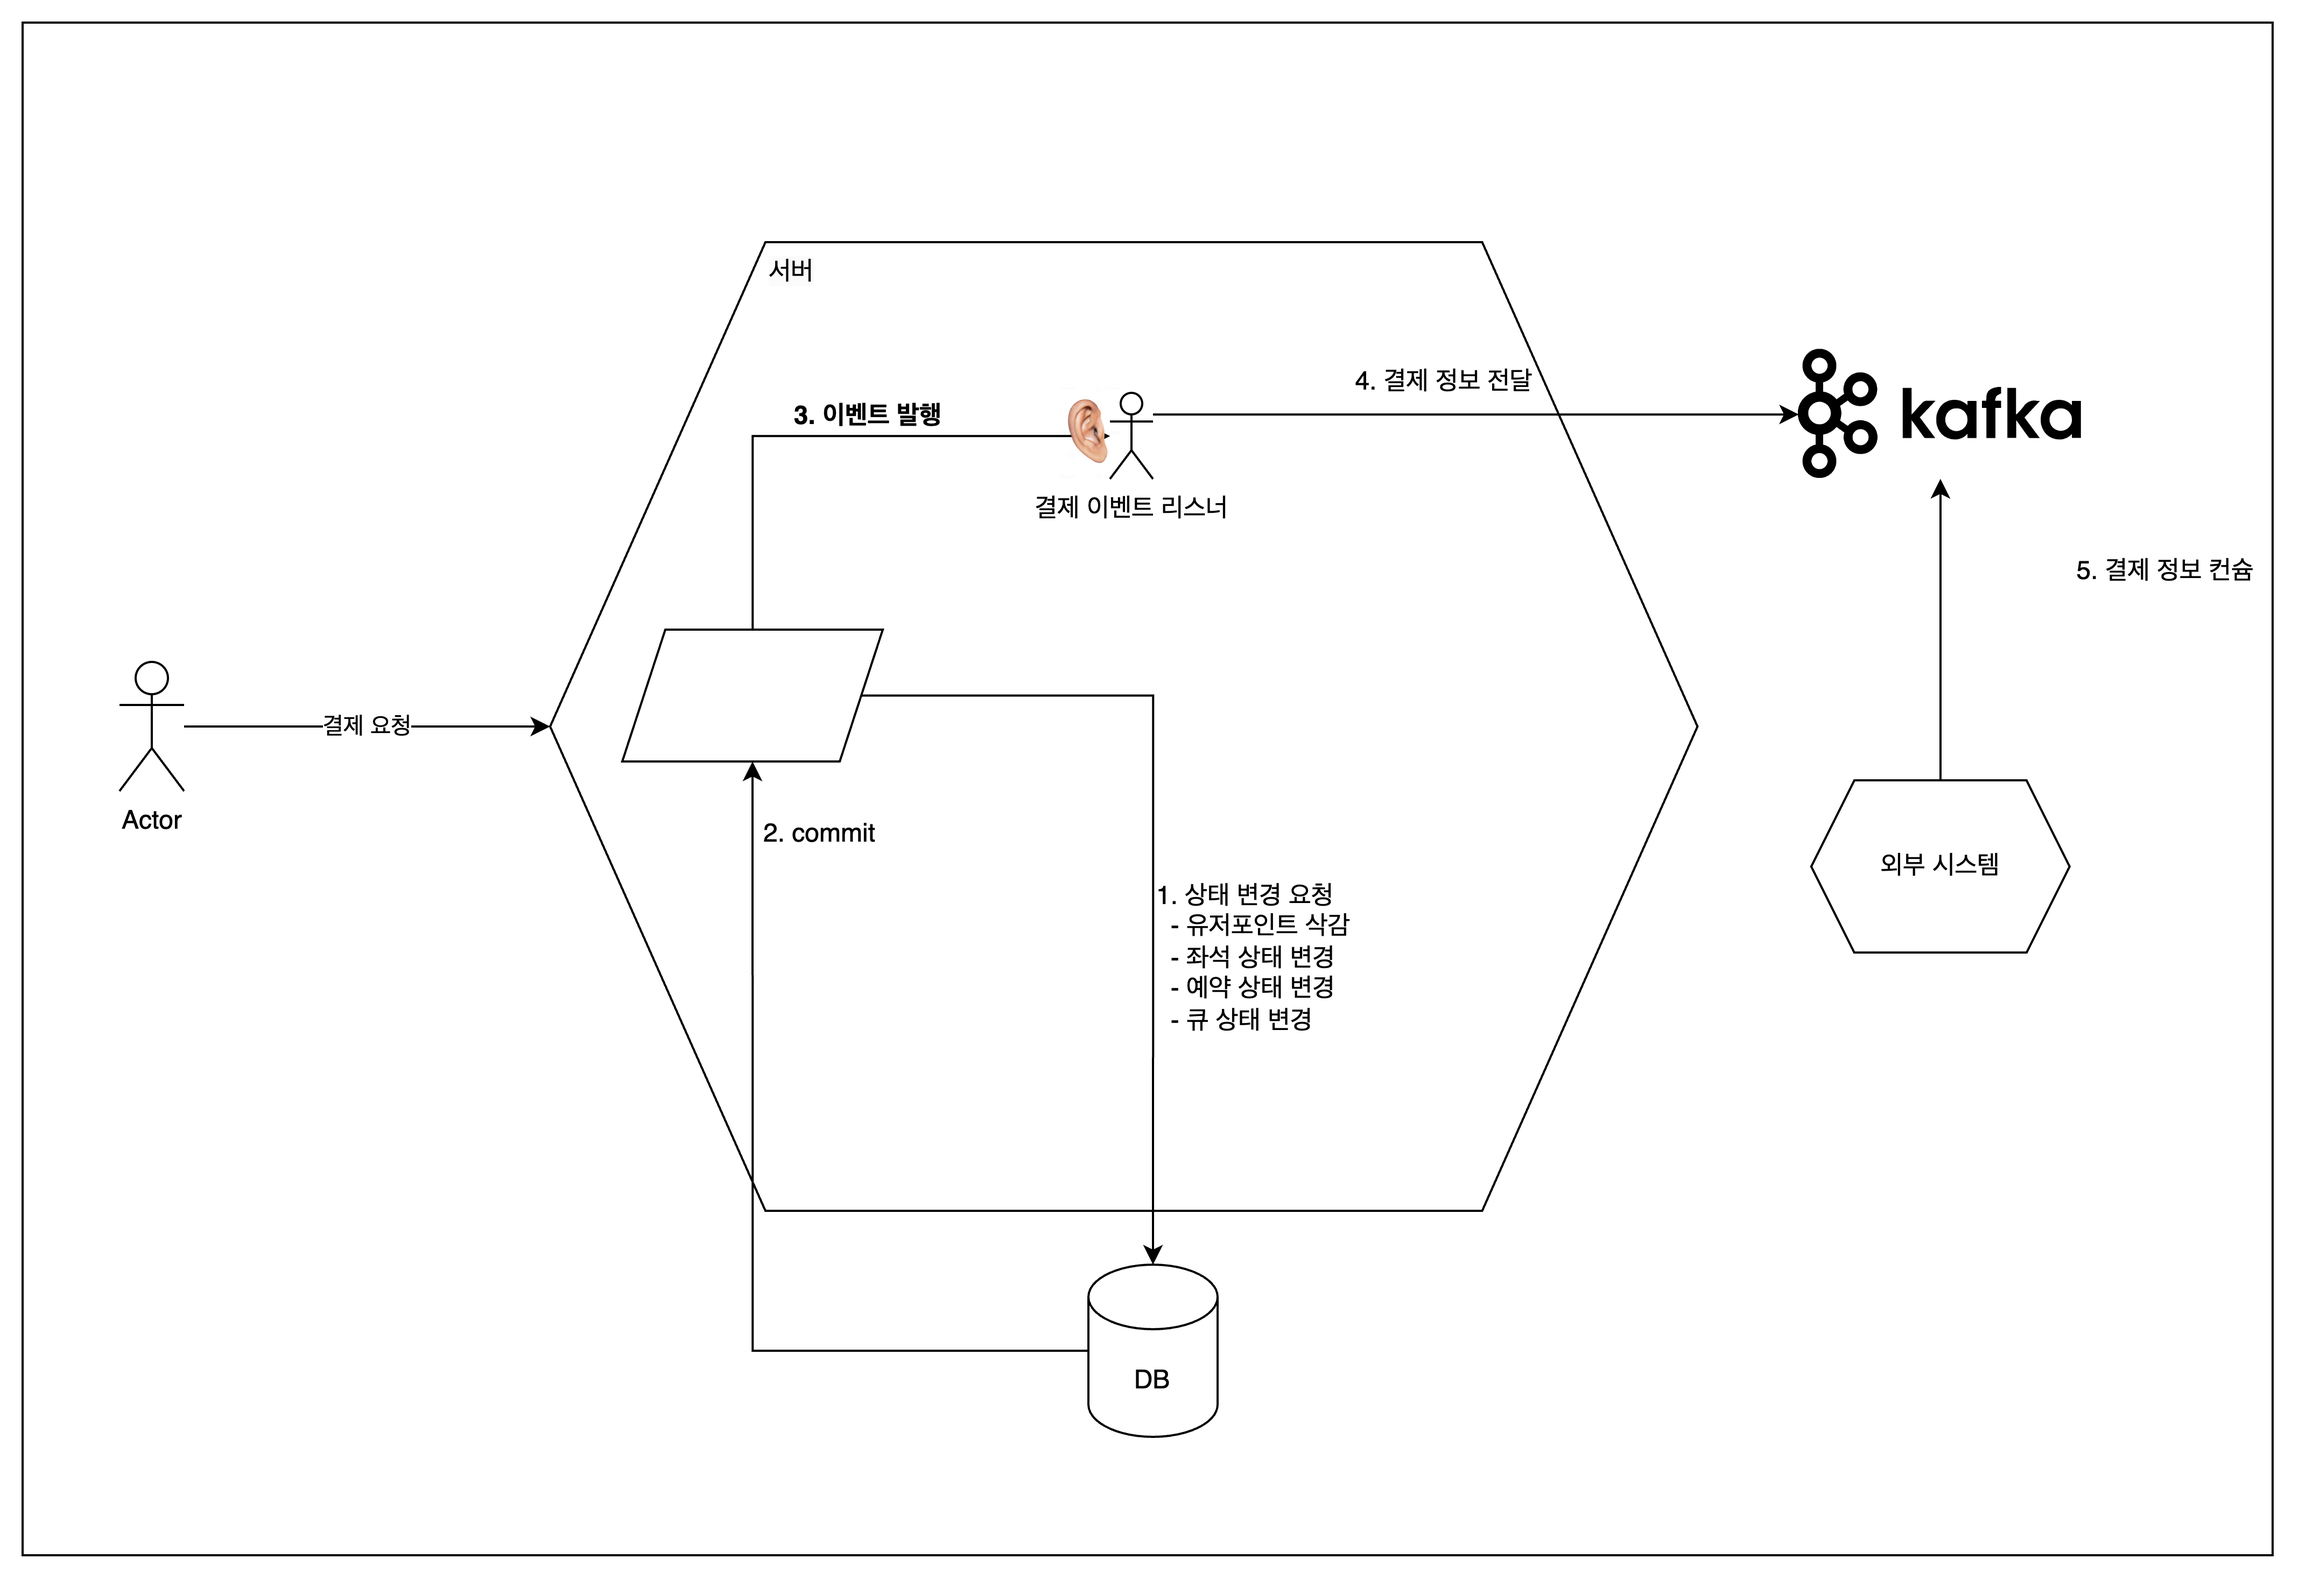
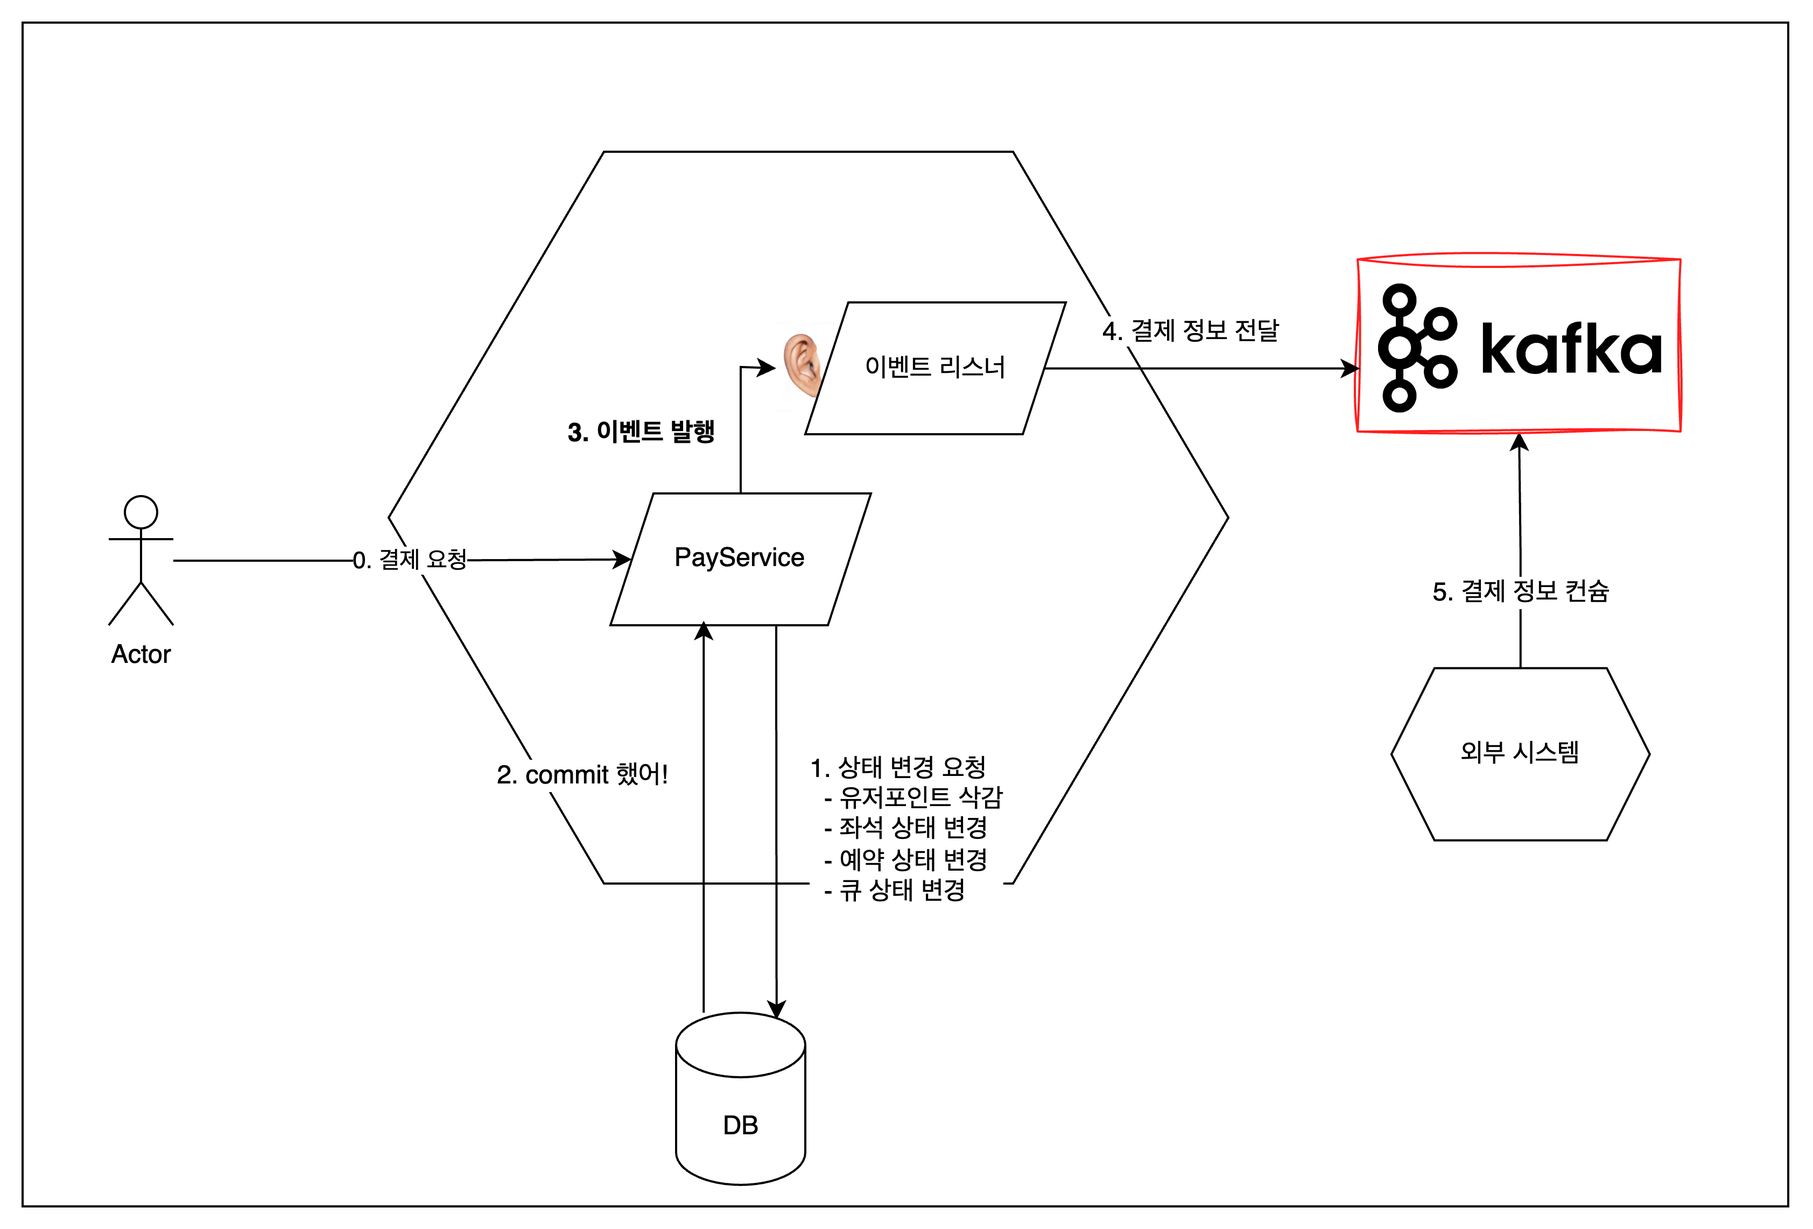
docs: 아웃박스 트랜잭션 패턴 설명 추가

diff --git a/docs/markdown/10. 9주차-Transactional OutBox Pattern.md b/docs/markdown/10. 9주차-Transactional OutBox Pattern.md
@@ -1,11 +1,20 @@
 # Transactional Outbox Pattern
 
-## 1. 왜 사용해?
+## 0. 들어가기 전
+콘서트 예약은 **유저**와 **좌석**이 필요하다.
+![](https://velog.velcdn.com/images/petit-prince/post/0c6d2a13-c439-46b9-b8d4-3cf71eae809a/image.png)
 
-기존에 잘 만들었던 상황을 다시 보자.  
+
+유저는 **"예약되지 않은 좌석"** 을 예약할 수 있다.
+![](https://velog.velcdn.com/images/petit-prince/post/afb98c93-ea4f-483d-a57a-255bc846c388/image.png)
+
+이후, 유저는 예약한 좌석에 대해 **결제**할 수 있다.
+
+## 1. 왜 사용해?
+ 
 ![10.1](https://github.com/hpp-backend-15/java-concert-joonhyeokyang/blob/step18/docs/img/10-1.png)
 
-좌석 결제 시도 이후 다음과 같은 일이 일어난다.
+**결제** 요청 이후, 발생하는 일은 다음과 같다. 
 
 1. DB에 상태 변경 요청
     - 유저포인트 삭감
@@ -13,60 +22,129 @@
     - 예약 상태 변경
     - 큐 상태 변경
 
-2. 커밋
+2. DB 커밋 
 3. 이벤트 발행
-4. (외부) 결제 정보 전달
+4. (외부 서버) 결제 정보 전달
 
-여기서, 트랜잭션 내에 있는 것은 DB에 상태 변경 요청들까지다.
+만약, `2(DB 커밋)`  이후 외부 API 서버에 결제 정보 전달 중 **실패하면 어떤 일이 일어날까?**
 
-만약, 커밋 이후 외부 API에 결제 정보 전달을 하다 실패하면 어떤 일이 일어날까?
-
-대표적으로 외부 시스템이 다운됐다 생각해보자.
-`Connection Timeout`이 났다면, 해당 요청이 완료된 것일까?  
-다시 요청을 보낸다면 **중복된 요청**일 수도 있고, 다시 보내지 않는다면 해당 정보가 **전달이 안됐을 수도** 있다.
+예를 들어, 외부 시스템 요청 중 `Connection Timeout`이 났다면, 해당 요청이 완료된 것일까?  
+**보내는 입장에서는 알 도리가 없다!**  
 
 ![10.2](https://github.com/hpp-backend-15/java-concert-joonhyeokyang/blob/step18/docs/img/10-2.png)
 
-어떻게 이 문제를 해결할까? 내 서비스의 역활과 책임을 분리하는 방법은 없을까?
+> 다시 보낸다면 **중복된 요청**일 수도 있다.  
+> 다시 보내지 않는다면 해당 정보가 **전달이 안됐을 수도** 있다.  
 
-역활과 책임을 분리하는 방법은 대부분 **인터페이스**를 두는 것이다!
+이 문제를 어떻게 해결 할까?
 
 ## 2. 문제 해결 - 카프카 이용
 
 ![10.3](https://github.com/hpp-backend-15/java-concert-joonhyeokyang/blob/step18/docs/img/10-3.png)
 
-그렇다면, 위 그림은 어떨까?
+외부 메시지 저장소 **(카프카)** 를 이용해보자
 
-결제 이벤트 리스너의 역할은 카프카에 결제 정보를 전달하는데 까지다.
+우리 서버의 역할은 카프카에 **결제 정보를 전달**만 하면 된다.
 
-카프카에 결제 정보만 전달한 뒤, 외부 시스템이 다운된다 하더라도, 해당 결제 정보를 가져가는 책임을 **카프카와 외부 시스템**에 위임할 수 있다.
+> **"카프카에 정보 넣어놨으니, 알아서 가져가!"**
 
-그럼 문제가 없어질까? **아니다!**
+즉, 해당 결제 정보를 가져가는 책임을 **외부 시스템에 위임**할 수 있다.
+
+그럼 모든 문제가 없어질까..?
+
+
+**아니다!**
+
+
+## 3. 원자성(Atomicity)
+DB에 결제 요청 정보를 적재하는 상황을 되돌아보자.
+
+DB에 요청을 보내는 `1`은 하위 4가지 작업은 1개의 작업처럼 움직인다.
+
+그 중 하나라도 실패한다면, `2(DB Commit)`에서 실패하고, 모든 실패한 작업을 되돌린다.
+
+이를 **원자성**이라 한다. (모두 성공시 작업 성공, 하나라도 실패시 모든 작업이 실패하는 성질)
+
+(또한 원자성을 갖는 작업을 `트랜잭션`이라고 하자.)
+
+카프카에 정보를 보내는 작업은 어떤가? 
+
+DB에 요청 보내는 작업인 `1`, `2`를 제외한 `3`, `4`는 요청 중 하나가 실패하더라도, **모든 작업이 실패하진 않는다.**
+
+> 정확하게는 `@Async`와 `@EventListener`를 그냥 사용했을 때, 모든 작업이 실패하진 않는다.
 
 ![10.4](https://github.com/hpp-backend-15/java-concert-joonhyeokyang/blob/step18/docs/img/10-4.png)
 
-트랜잭션 구간은 DB와 연동하는 부분까지다.
+그렇다면, `@TransactionalEventListener`를 이용하여 `3`, `4`까지 작업을 원자적으로 만들어보자
+```java
 
-만약, 상태 변경 요청까지는 끝나서 커밋이 끝나고, 이벤트 발행 하는 순간 서버가 다운되면 **외부 결제 정보가 사라진다.**
+@Transactional
+public method(){
+    // do business logic
+    publishEvent();
+}
 
-트랜잭션 내부에 있다면, 원자성이 보장되어서 모든 요청이 __성공__ 하거나 모든 요청이 __실패__ 할 것이다.
+@TransactioanlEventListener(phase = "BEFORE_COMMIT")
+public listener(){
+    // now I am in Transaction!
+    sendMessageToKafka();
+}
+```
+위와 같이 리스너에 `BEFORE_COMMIT`옵션을 이용한다면 카프카에 메시지를 보내는 요청까지 원자적으로 처리할 수 있다.
 
-그러나 카프카에 메시지를 보내는 요청은 **트랜잭션 내부에 존재하지 않는다.**
+그러나 **치명적인 문제가 생긴다.**
 
-## 3. 문제 해결 - 트랜잭션 아웃박스 이용
+`외부 시스템에 정보 전달`을 하다가 실패하면, **결제가 실패한다.**
 
-![10.5](https://github.com/hpp-backend-15/java-concert-joonhyeokyang/blob/step18/docs/img/10-5.png)
+**결제**는 돈을 벌어다주는 너무나도 중요한 비지니스 로직이다.
 
-우리가 원하는건 다음 그림이다.  
+**(외부 시스템에 정보 전달보다도 훨씬 더!)**
 
-1. 도메인 로직이 아닌 외부 결제 정보 전송은 분리하되,  
-2. 같은 트랜잭션처럼 외부 결제 정보 전송을 보장하도록! (그러나, 외부 결제 정보 전송 실패가 결제 로직이 실패가 되진 않도록!). 
+다시 원점으로 돌아와, `@TransactioanlEventListener의 phase=AFTER_COMMIT` 옵션을 이용하여 DB 트랜잭션에서 분리할 수 있다.
 
-이때, **트랜잭셔널 아웃 박스 패턴 (Transactional Outbox Pattern)** 을 이용한다.  
+그러나 여전히 카프카에 메시지를 적재하려는 순간 서버가 종료되면, 외부 시스템에 메시지를 전달할 수 없다.
 
-Outbox는 메일함이다. 트랜잭션을 이용하는 **메일함** 하나 두자! 라고 생각해보자!  
+상황을 정리해보자 
+### 1. 카프카에 메시지를 보내는 요청이 **트랜잭션 내부에 있는 경우**
+- 외부 전달 요청이 실패해도, 결제가 실패해선 안된다.
+- 그러므로 트랜잭션 내부에 존재해선 안된다.
 
-아래 그림을 통해 실제 처리하려는 작업을 표현했다.
+### 2. 카프카에 메시지를 보내는 요청이 **트랜잭션 외부에 있는 경우**
+- 외부 결제 정보 전달이 성공적으로 수행됐는가에 대한 보장을 할 수 없다.
+- 그러므로 트랜잭션 외부에 존재해선 안된다.
+
+원자적으로 처리되어선 안되지만, 결과적으로 두 요청이 모두 성공하거나, 모두 실패했으면 좋겠다.
+
+그렇다면, **(언젠가는) 결과적으론 성공할 수 있게 하는 시스템**을 고안해보자.
+
+
+## 4. 문제 해결 - 트랜잭션 아웃박스 이용
+
+1. 도메인 로직이 아닌 외부 결제 정보 전송은 원자적으로 처리하지 않되, 
+2. 같은 트랜잭션처럼 **결과적으로는** 외부 결제 정보 전송을 보장하도록 
+
+**트랜잭셔널 아웃 박스 패턴 (Transactional Outbox Pattern)** 을 이용한다.  
+
+Outbox는 메일함이다.
+
+도메인 로직을 처리할 때 같이 원자적으로 처리되는 **메일함** 하나 두자! 라고 생각해보자.
+
+그러기 위해 먼저 DB를 이용한다. 결과적으로 `event_outbox` 테이블을 생성한다. 
+
+카프카는 넷플릭스처럼, 이용자마다 영화를 어디까지 봤는지를 추적하고 있다.
+
+한 토픽에서도 `consumer_group_id`를 이용하여, 해당 그룹이 어디까지 읽었는지를 저장한다.   
+
+즉, 외부 시스템만 해당 카프카 메시지를 받는게 아니라 , **메시지 전송을 하는 나도 해당 메시지를 읽을 수 있다.**
+
+**그렇다면 내가 해당 메시지를 받아 카프카에 보내졌는지 검증할 수 있다는 뜻이다.**
+
+
+1. 결제 요청시, `event_outbox`에 `카프카에 메시지를 보낼꺼야`라고 적어놓기만 한다.
+2. `consumer_group_id`를 외부 시스템과는 다르게 지정하여, 메시지가 보내졌는지 확인한다
+3. (메시지가 잘 전송된 경우) `event_outbox`에 `카프카에 메시지가 보내졌다.` 라고 수정한다.
+4. (메시지가 전송되지 않은 경우) `event_outbox` 테이블을 순회하며, 보내지지 않은 메시지를 주기적으로 확인하고, 다시 전송한다.
+
 ![10.6](https://github.com/hpp-backend-15/java-concert-joonhyeokyang/blob/step18/docs/img/10-6.png)
 
 실제로, 트랜잭션 아웃박스 패턴을 이용하여 얻게되는 효과를 정리해보자
